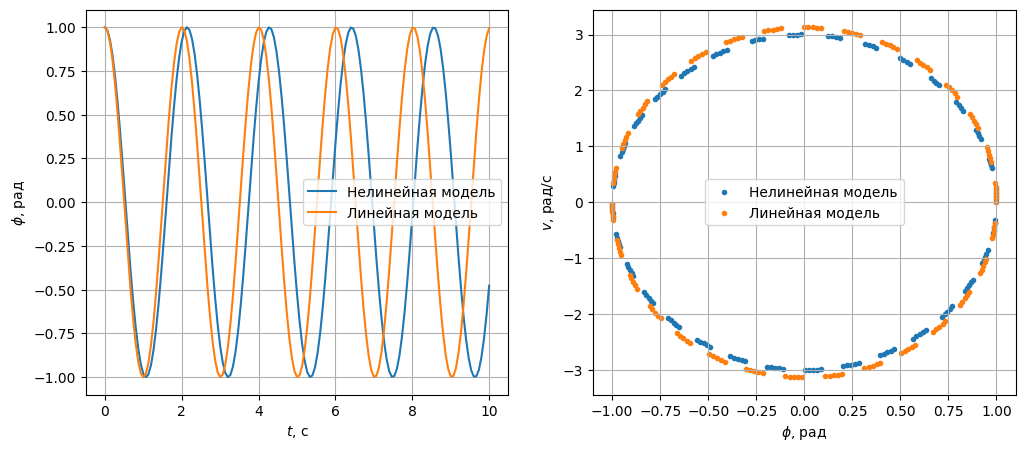
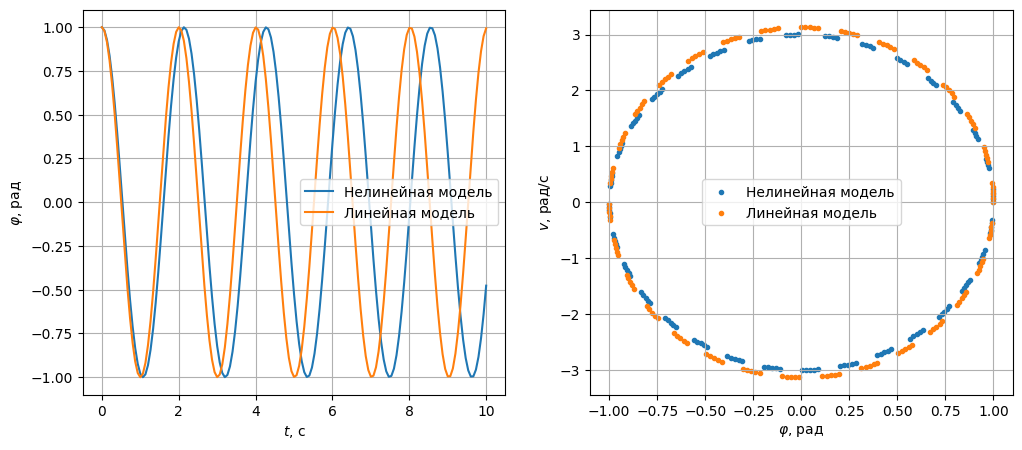
lin-nonlin comparison for different angles

diff --git a/main.py b/main.py
@@ -1,6 +1,6 @@
+from cgitb import handler
 import matplotlib.pyplot as plt
 import numpy as np
-from matplotlib.pyplot import legend
 
 a = 0
 b = 10
@@ -56,6 +56,10 @@ if __name__ == '__main__':
     t = np.linspace(a, b, N + 1)
 
     parameters = [omega, k, omega_f, A]
+
+
+    # СРАВНЕНИЕ ЛИНЕЙНОЙ И НЕЛИНЕЙНОЙ МОДЕЛЕЙ
+
     y_nonlinear = rungeKutta(t, [v0, phi0], dv_nonlinear, parameters)
     y_linear = rungeKutta(t, [v0, phi0], dv_linear, parameters)
 
@@ -63,15 +67,50 @@ if __name__ == '__main__':
     axs[0].plot(t, y_nonlinear[:, 1], label="Нелинейная модель")
     axs[0].plot(t, y_linear[:, 1], label="Линейная модель")
     axs[0].set_xlabel(r"$t$, с")
-    axs[0].set_ylabel(r"$\phi$, рад")
+    axs[0].set_ylabel(r"$\varphi$, рад")
     axs[0].grid()
     axs[0].legend()
     axs[1].scatter(y_nonlinear[:, 1], y_nonlinear[:, 0], marker='.', label="Нелинейная модель")
     axs[1].scatter(y_linear[:, 1], y_linear[:, 0], marker='.', label="Линейная модель")
-    axs[1].set_xlabel(r"$\phi$, рад")
+    axs[1].set_xlabel(r"$\varphi$, рад")
     axs[1].set_ylabel(r"$v$, рад/с")
     axs[1].grid()
     axs[1].legend()
     plt.savefig("linear_nonlinear.png", bbox_inches='tight')
     plt.show()
+    plt.clf()
+    plt.close()
+
+
+    # СРАВНЕНИЕ ЛИНЕЙНОЙ И НЕЛИНЕЙНОЙ МОДЕЛЕЙ ДЛЯ РАЗНЫХ НАЧАЛЬНЫХ УГЛОВ
+
+    n_comparisons = 5
+    phi0_list = np.linspace(0.25, 1, n_comparisons)
+
+    y_nonlinear = [rungeKutta(t, [v0, phi0_list[i]], dv_nonlinear, parameters) for i in range(n_comparisons)]
+    y_linear = [rungeKutta(t, [v0, phi0_list[i]], dv_linear, parameters) for i in range(n_comparisons)]
+    legend_line_list = []
+    fig, axs = plt.subplots(n_comparisons, 1, figsize=(7, 12))
+    for i in range(n_comparisons):
+        if i == 0:
+            line1 = axs[i].plot(t, y_nonlinear[i][:, 1], label="Нелинейная модель")
+            line2 = axs[i].plot(t, y_linear[i][:, 1], label="Линейная модель")
+            legend_line_list = [line1, line2]
+        else:
+            axs[i].plot(t, y_nonlinear[i][:, 1])
+            axs[i].plot(t, y_linear[i][:, 1])
+        axs[i].set_xlabel(r"$t$, с")
+        axs[i].set_ylabel(r"$\varphi$, рад")
+        axs[i].grid()
+
+        empty_line, = axs[i].plot([], [], ' ', label=rf"$\varphi_0 =$ {phi0_list[i]} рад")
+        pseudo_title = axs[i].legend(handles=[empty_line], handlelength=0, handletextpad=0, loc='right')
+        axs[i].add_artist(pseudo_title)
+
+    fig.legend(handles=[l[0] for l in legend_line_list], loc='outside right upper')
+    fig.savefig("lin_nonlin_4_phis.png", bbox_inches='tight')
+    plt.show()
+    plt.clf()
+    plt.close()
+
 
